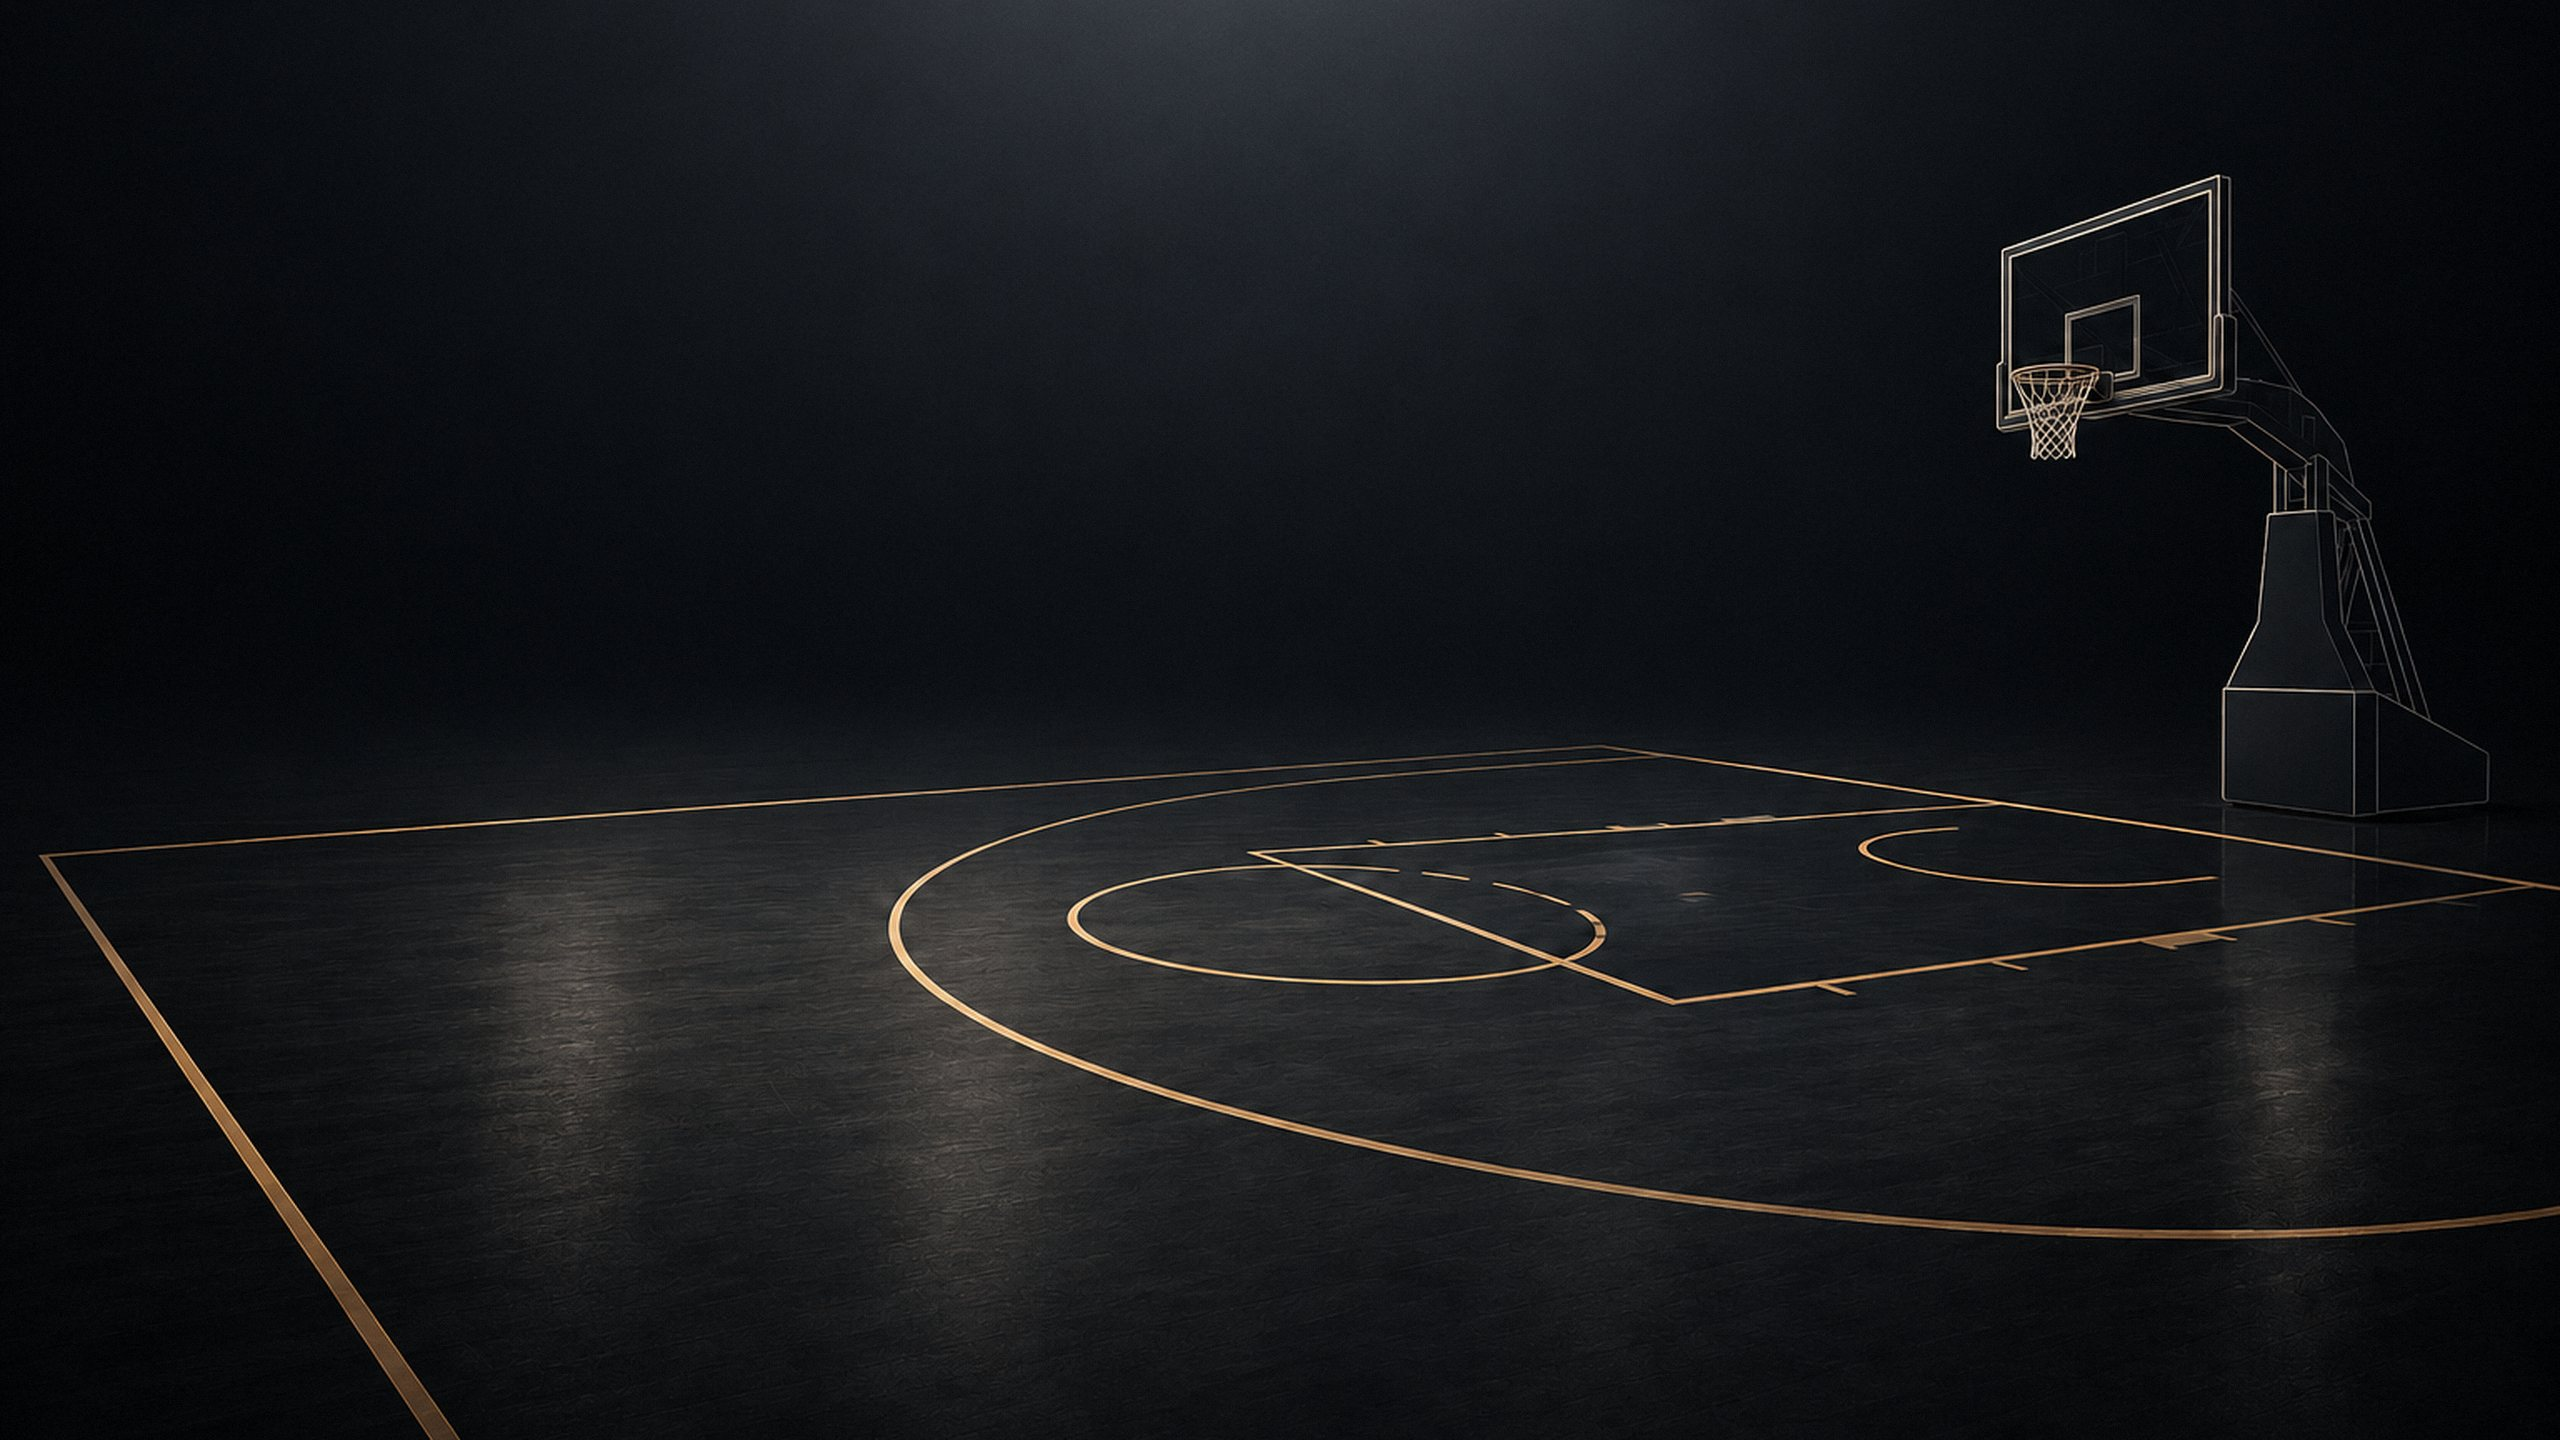
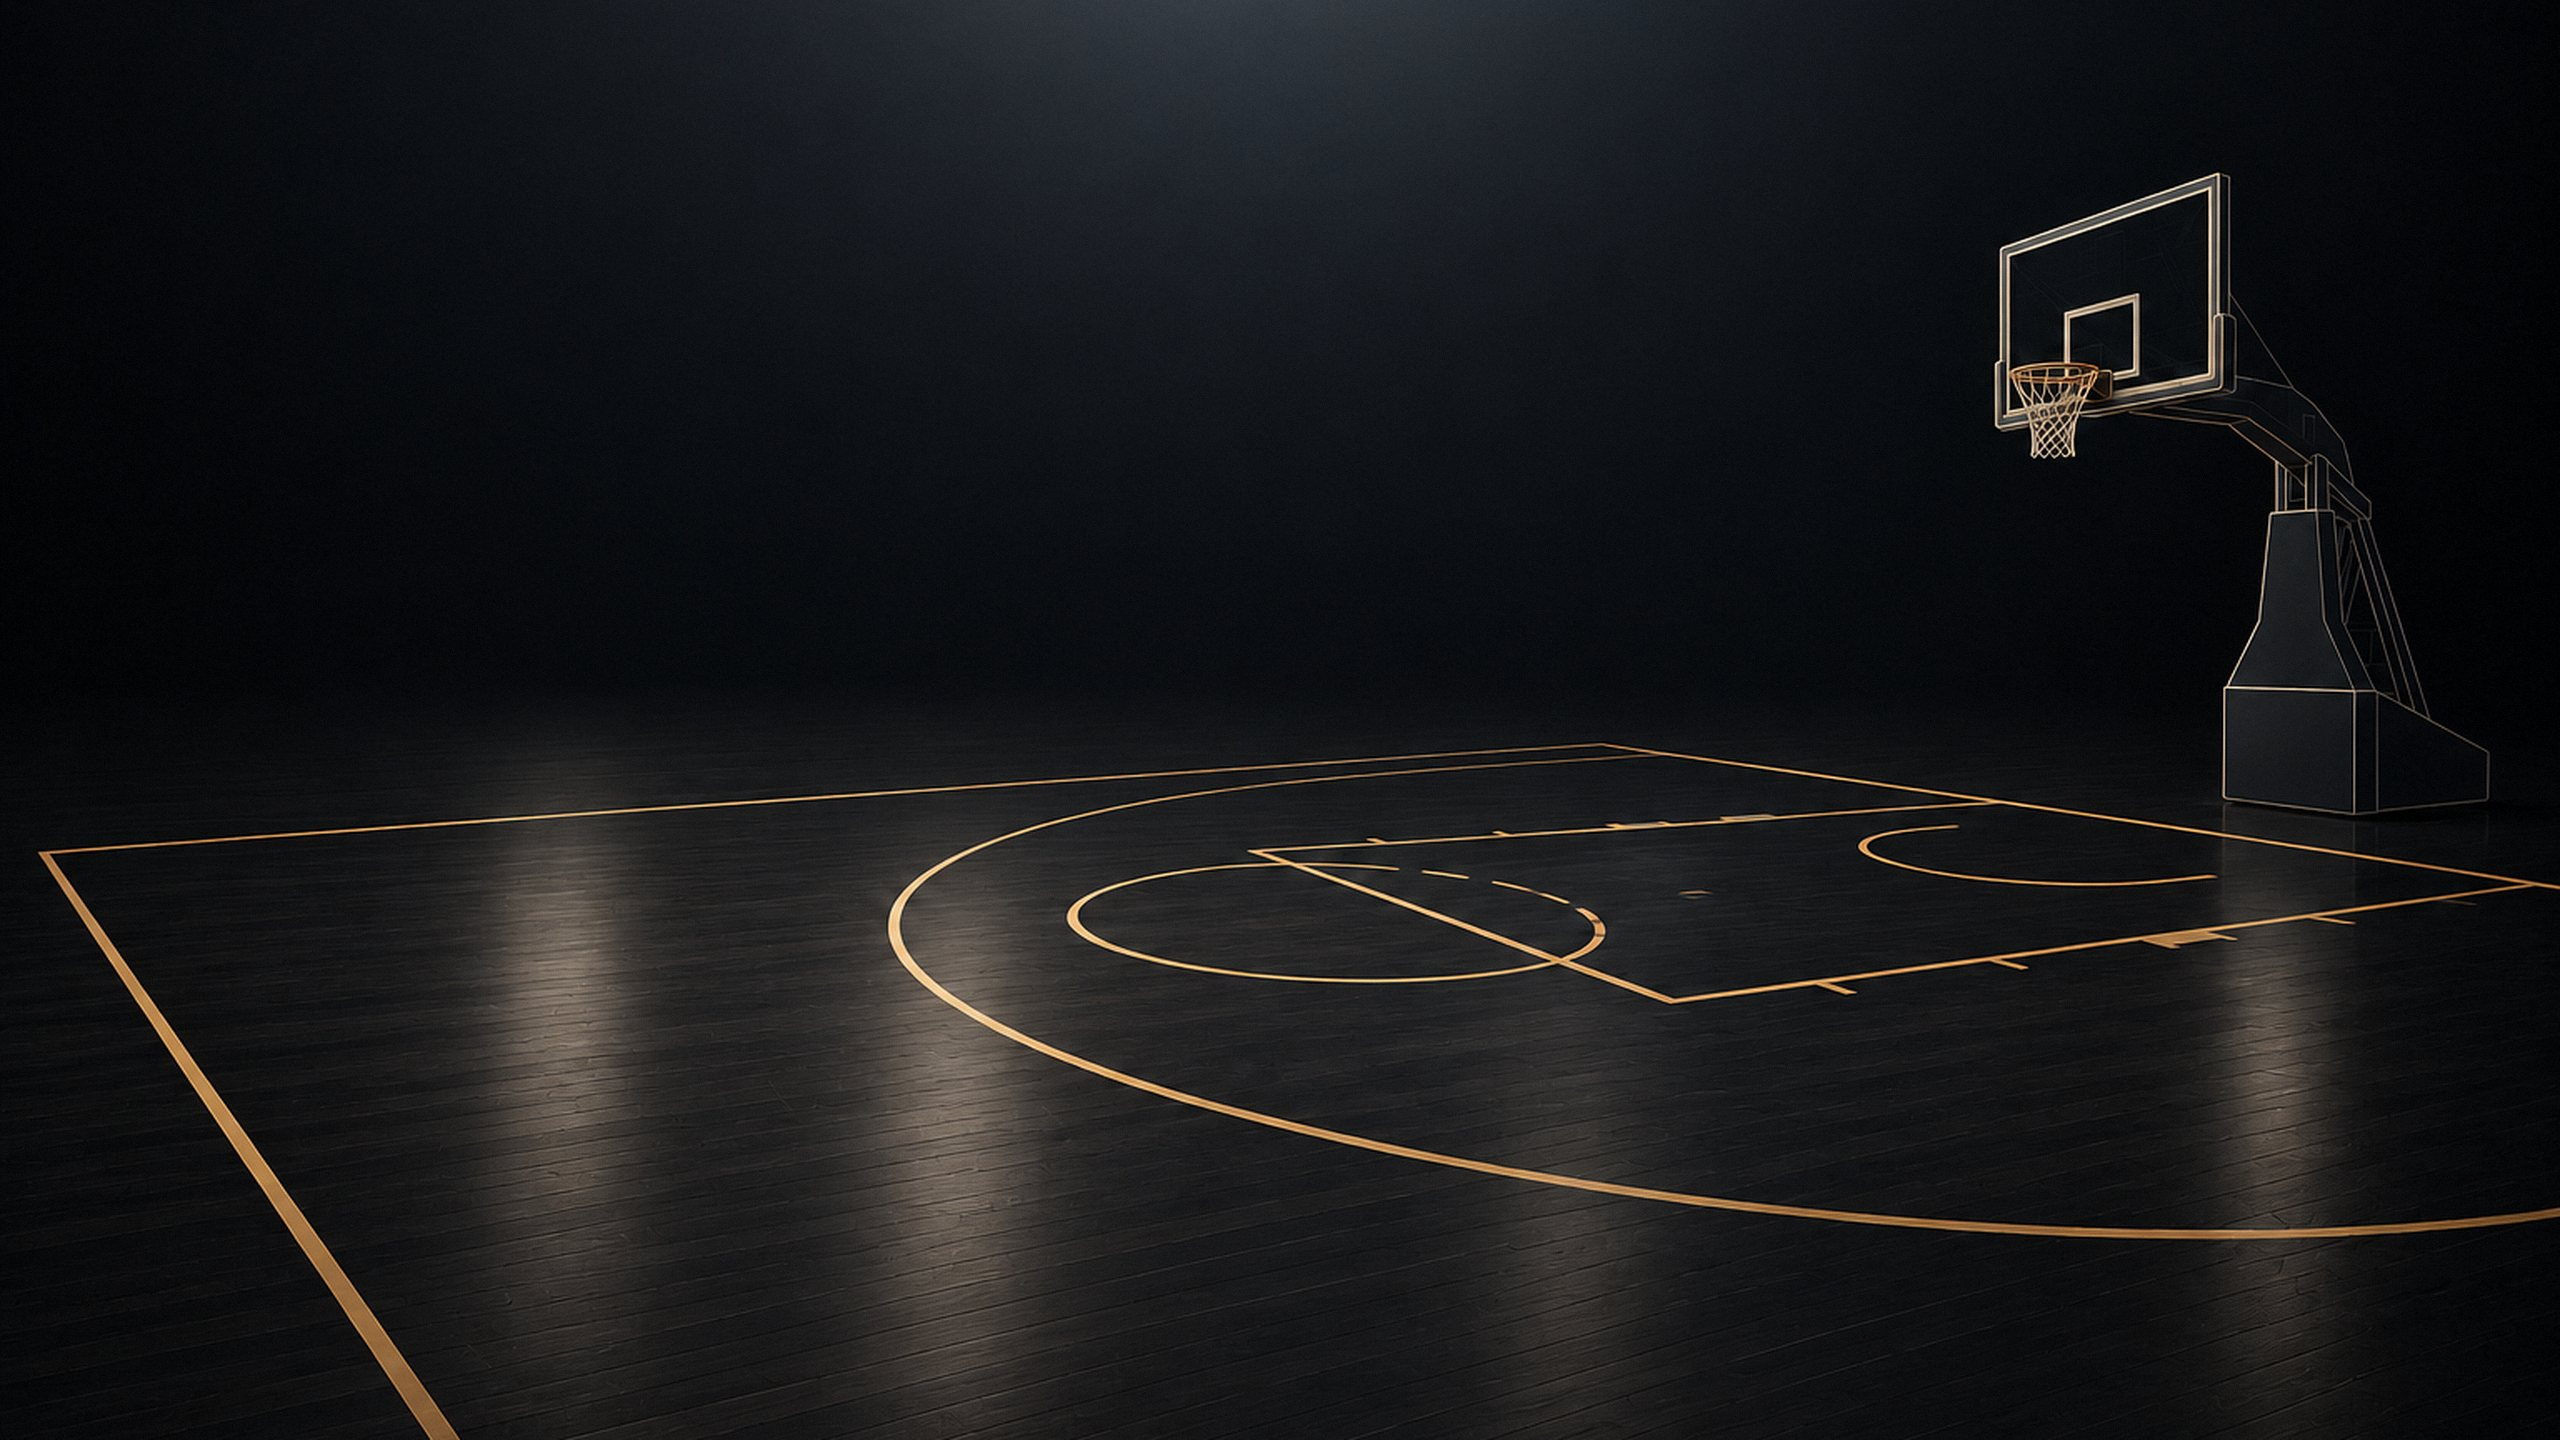
Court background v3: clean hardwood planks, clean backboard glass (no stray lines)

diff --git a/css/style.css b/css/style.css
@@ -39,7 +39,7 @@ body::before {
   position: fixed;
   inset: 0;
   z-index: -1;
-  background: var(--graphite) url(../assets/brand/kit/background.jpg) center / cover no-repeat;
+  background: var(--graphite) url(../assets/brand/kit/background.jpg?v=26) center / cover no-repeat;
 }
 
 button { font-family: inherit; }
